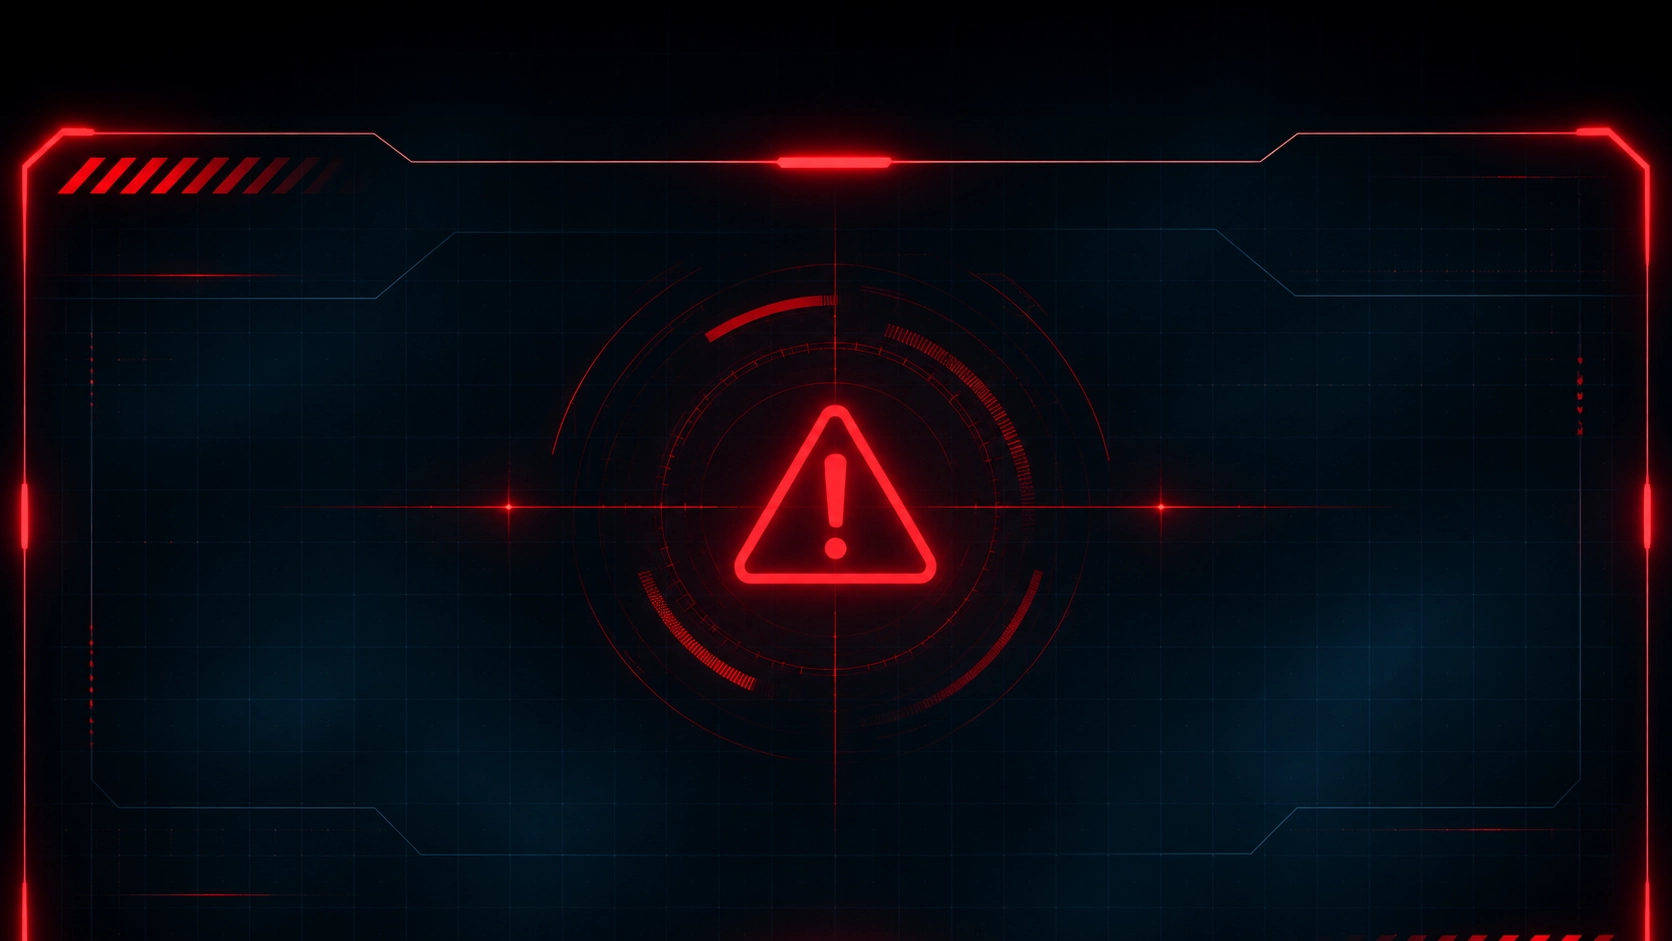
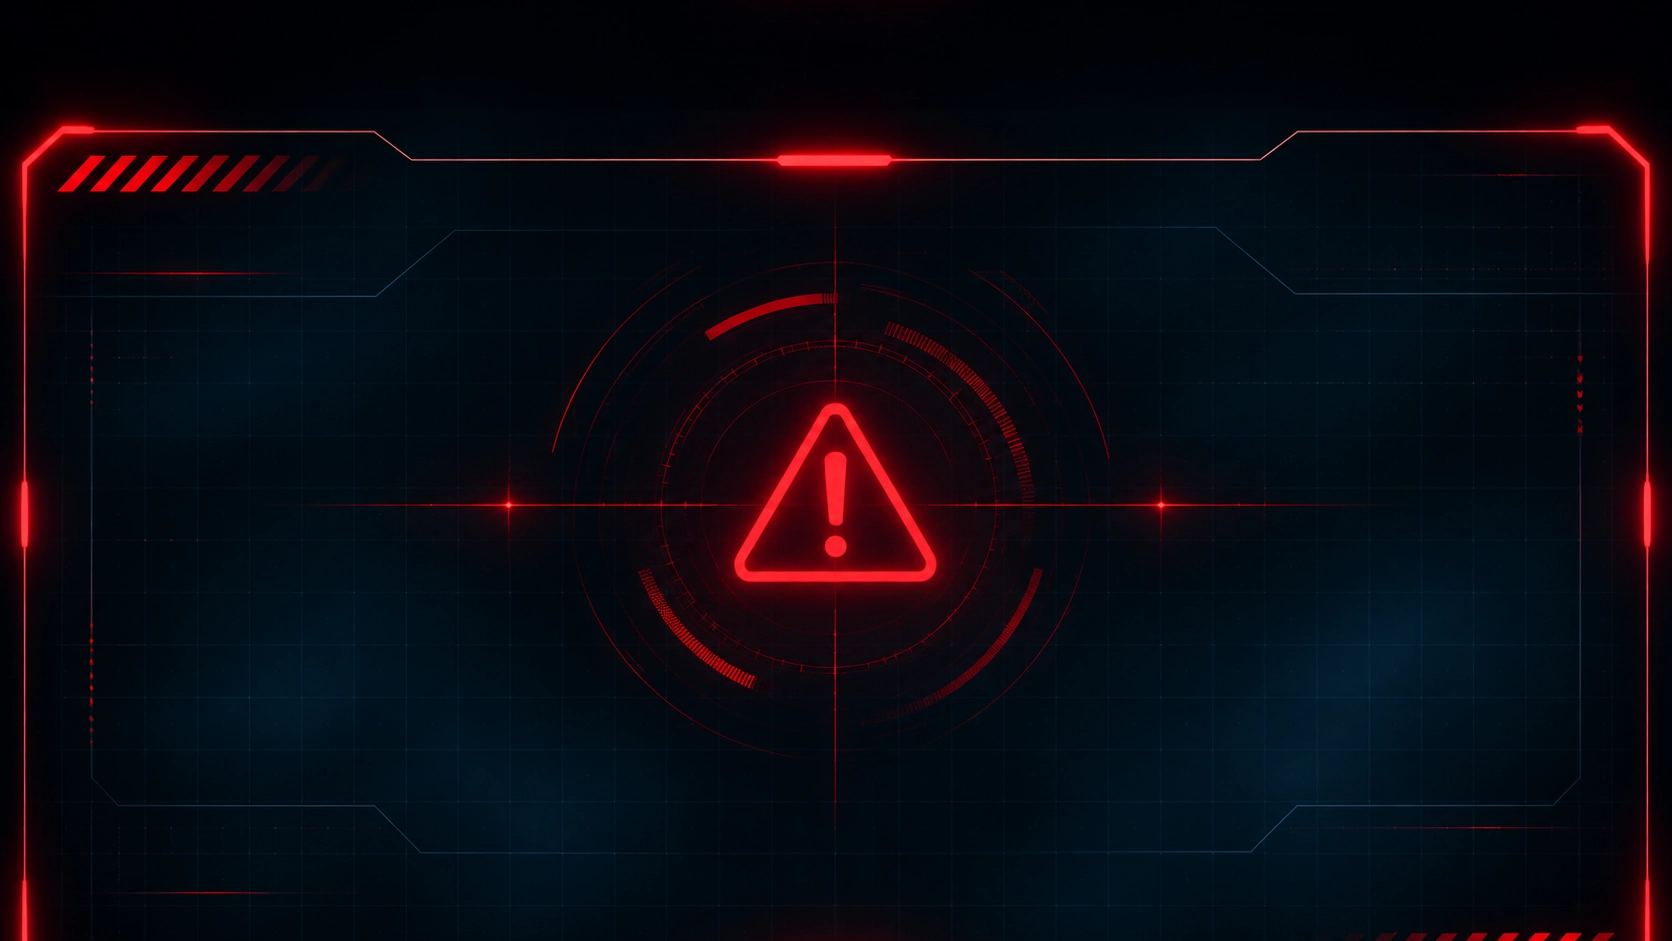
Skapat system compromised för desktop, validerat

diff --git a/css/stylesystemcompromised.css b/css/stylesystemcompromised.css
@@ -108,3 +108,43 @@ body::before {
     }
 }
 
+@media (min-width: 768px) {
+
+}
+
+body::before {
+    content: "";
+    /* Skapar ett tomt pseudo-element utan textinnehåll */
+    position: fixed;
+    top: 0;
+    left: 0;
+    width: 100%;
+    height: 100lvh;
+    background-image:
+        linear-gradient(rgba(120, 145, 165, 0.15),
+            rgba(120, 145, 165, 0.15)),
+        url('../images/backgrounsystem_desktop.webp');
+    background-size: cover;
+    background-position: center;
+    background-repeat: no-repeat;
+    z-index: -1;
+}
+
+.system {
+    width: 60%;
+    margin: 6rem auto;
+}
+
+.system h1 {
+    font-size: 3rem;
+}
+
+.system p {
+    font-size: 2rem;
+}
+
+.systeminfo {
+    width: 60%;
+    margin-top: 27rem;
+
+}

diff --git a/systemcompromised.html b/systemcompromised.html
@@ -39,7 +39,7 @@
     <p>OBEHÖRIG ÅTKOMST UPPTÄCKT</p>
 </section>
 
-<section class="systeminfo">
+<div class="systeminfo">
     <div class="statusrow">
     <span>Forskningsdatabas</span>
     <span class="offline">OFFLINE</span>
@@ -56,11 +56,7 @@
     <p>Åtkomst till begärd information har blockerats tillfälligt.</p>
     <p style="color: #ff9800;">Systemåterställning pågår.</p>
 
-</section>
-
-
-
-
+</div>
 
 
 </body>
